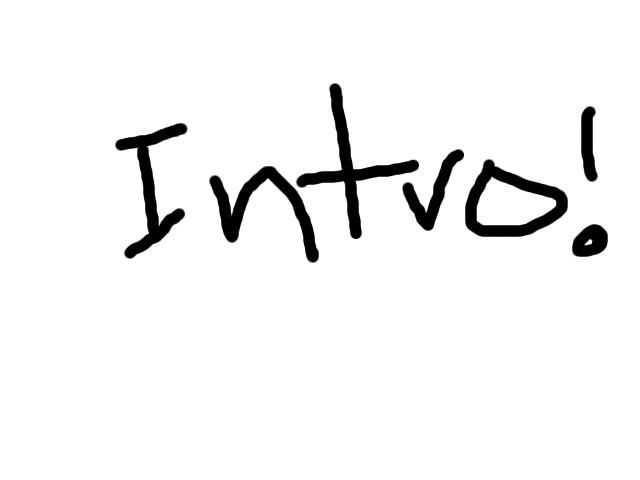
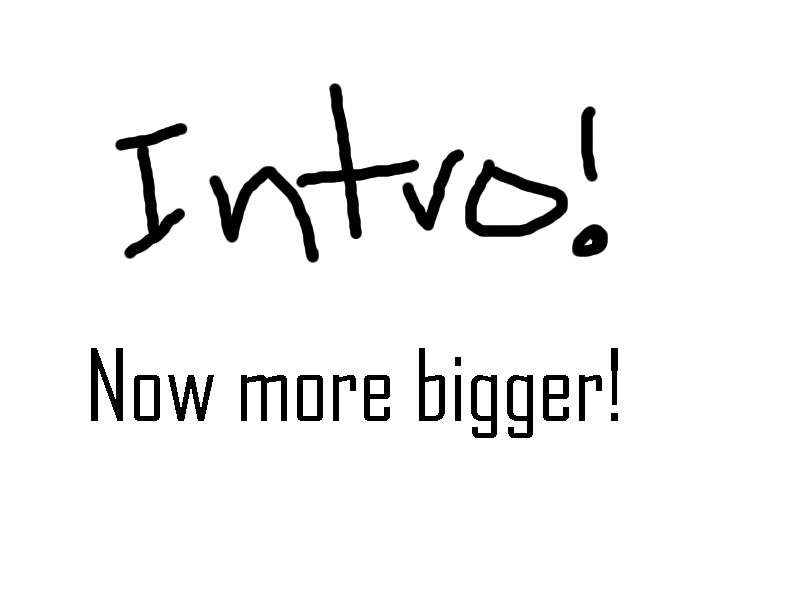
Added a simple credits class and resized intro.png to fit the new screen resolution.

diff --git a/pyweek6/lib/credits.py b/pyweek6/lib/credits.py
@@ -1,0 +1,34 @@
+from pyglet import event
+from pyglet import font as pygletfont
+from pyglet.window import key
+import data
+import fileinput
+
+text_speed = 30.0
+text_size = 36
+text_offset = 40
+
+class Credits(event.EventDispatcher):
+    def __init__(self):
+        self.font = pygletfont.load('Arial', text_size)
+        
+        #load the credits file
+        self.textList = list()
+        sx = 250
+        sy = -text_size
+        for line in fileinput.input(data.filepath("credits.txt")):
+            self.textList.append(pygletfont.Text(self.font, line, x = 800 / 2, y = sy, color = [1.0,0.0,0.0,1.0], halign = pygletfont.Text.CENTER))
+            sy -= text_offset
+        
+    def update(self,dt):
+        for text in self.textList:
+            text.y += text_speed * dt
+            text.draw()
+            
+    def centerText(self, size):
+        return (800-(size*18))/2
+        
+    def on_key_press(self, symbol, modifiers):
+        if symbol == key.ESCAPE:
+            self.dispatch_event('on_quit')
+            return True

diff --git a/pyweek6/lib/menu.py b/pyweek6/lib/menu.py
@@ -8,6 +8,7 @@ class Menu(event.EventDispatcher):
         self.menuItems = []
         self.menuItems.append((pygletfont.Text(self.font,"Start Game"),'on_new_game'))
         self.menuItems.append((pygletfont.Text(self.font,"Resume Game"),'on_resume_game'))
+        self.menuItems.append((pygletfont.Text(self.font,"Credits"),'on_credits'))
         self.menuItems.append((pygletfont.Text(self.font,"Exit"),'on_exit_program'))
         #maybe the following should be a separate method:
         menuHeight = self.menuItems[0][0].height*(len(self.menuItems))
@@ -35,3 +36,4 @@ class Menu(event.EventDispatcher):
 Menu.register_event_type('on_new_game')
 Menu.register_event_type('on_resume_game')
 Menu.register_event_type('on_exit_program')
+Menu.register_event_type('on_credits')

diff --git a/pyweek6/lib/main.py b/pyweek6/lib/main.py
@@ -8,6 +8,7 @@ directory.
 from intro import Intro
 from menu import Menu
 from game import Game
+from credits import Credits
 from pyglet import window
 from pyglet import clock
 from pyglet import event
@@ -43,6 +44,8 @@ class StateManager(object):
         
         self.currentState = self.intro
         win.push_handlers(self.intro)
+        
+        self.credits = Credits()
     
     def update(self, dt):
         self.currentState.update(dt)
@@ -69,6 +72,9 @@ class StateManager(object):
 
     def on_quit(self):
         self.show_menu()
+        
+    def on_credits(self):
+        self.currentState = self.credits
         
     def on_exit_program(self):
         win.has_exit = True
